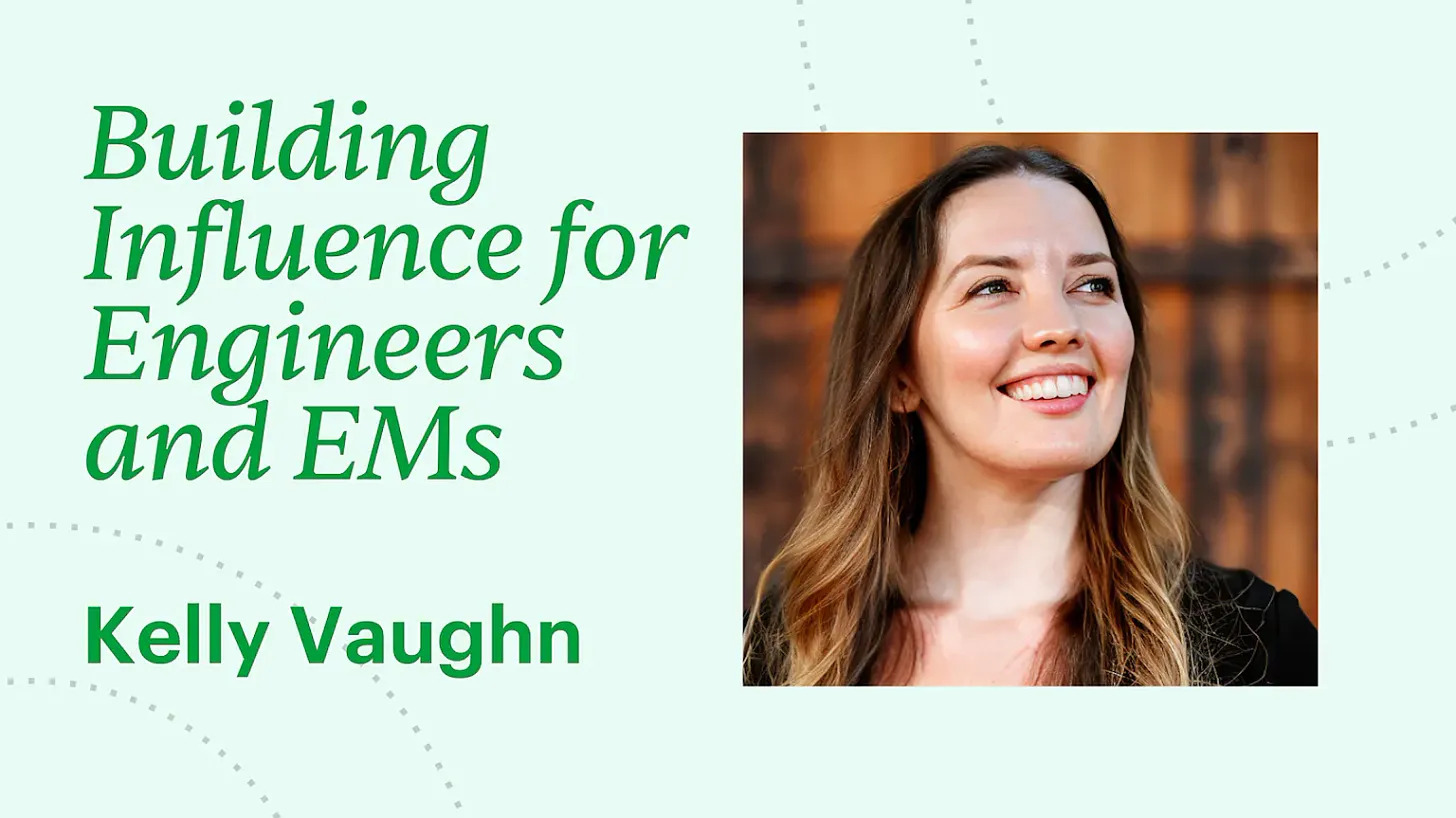
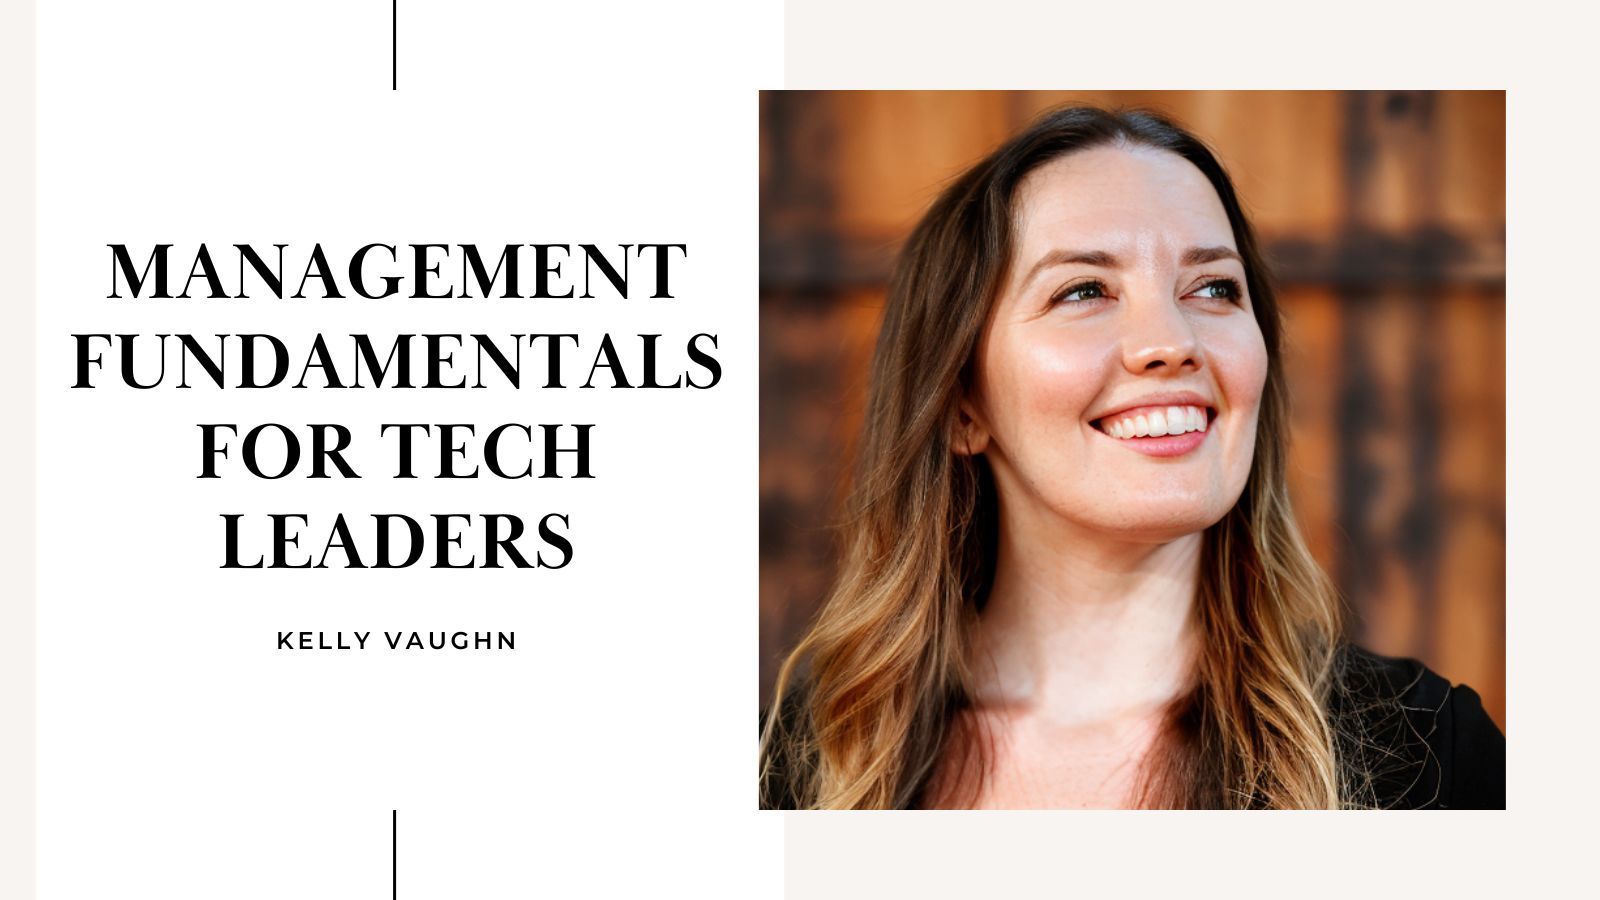
add ppp page

diff --git a/src/content/pages/course.md b/src/content/pages/course.md
@@ -1,21 +1,23 @@
 ---
-title: Building Influence For Engineers & EMs
+title: Management Fundamentals for Tech Leaders
 seo:
-  title: Building Influence For Engineers & EMs
+  title: Management Fundamentals for Tech Leaders
   description: Learn the 3 key skills you need to be an impactful leader in your engineering org
   image:
     src: '/kelly-vaughn.jpg'
 ---
 
-## Learn the 3 key skills you need to be an impactful leader within your engineering organization, regardless of your job title
+## Learn the 3 key skills you need to be an impactful technical leader
 
-![Heading for Building Influence for Engineers & EMs](/course.jpg)
+![Heading for Management Fundamentals for Tech Leaders](/course.jpg)
 
 ## What makes a great engineering leader?
 
-**People remember their favorite managers and technical leads not by the technical contributions they made but by the impact they left on their career.**
+**Tech leaders are remembered not just for their technical prowess, but for the lasting impact they have on their team's careers and success.**
 
-The best engineering leaders are on a perpetual trail of self-improvement and recognize that great leaders build great teams. Engineers moving into management are often not taught the ropes of how to be a great leader, which can be a huge barrier to their success.
+This course equips both new and experienced software engineering managers with the essential skills to amplify their influence and drive team performance.
+
+**Over 100 software engineers and engineering managers** have already enhanced their leadership capabilities through this course. Join them and transform your approach to tech leadership.
 
 ---
 
@@ -29,27 +31,33 @@ The best engineering leaders are on a perpetual trail of self-improvement and re
 
 &nbsp;
 
-<a class='flex items-center justify-center pt-1 pl-2 pr-2 pb-1 text-main bg-main border border-main rounded-full transition hover:bg-muted text-md italic font-serif' href='https://maven.com/kellyvaughn'>Sign up for the next cohort</a>
+<a class='flex items-center justify-center pt-1 pl-2 pr-2 pb-1 text-main bg-main border border-main rounded-full transition hover:bg-muted text-md italic font-serif' href='https://maven.com/kellyvaughn/engineering-management'>Sign up for the next cohort</a>
 
 ---
 
-> I recently completed Kelly’s course on ‘Building Influence for Engineers and EMs’, and I’m thoroughly impressed. Days after finishing, I find myself still unpacking the wealth of knowledge and insights provided. Kelly expertly laid out the essential foundations for participating in and constructing high-performance software engineering teams. What set this course apart was its interactive nature, making it far more engaging and enjoyable than any other online course I’ve experienced. Highly recommended for those looking to elevate their team’s performance and their personal impact within the tech space.
+> I recently completed Kelly’s course, and I’m thoroughly impressed. Days after finishing, I find myself still unpacking the wealth of knowledge and insights provided. Kelly expertly laid out the essential foundations for participating in and constructing high-performance software engineering teams.
+
+> What set this course apart was its interactive nature, making it far more engaging and enjoyable than any other online course I’ve experienced.
+
+> Highly recommended for those looking to elevate their team’s performance and their personal impact within the tech space.
 
 ---
 
 ## For the duration of your cohort you'll receive:
 
-- Over 4 hours of engaging live sessions easy to attend even during a busy work week
+- 4.5 hours of engaging live virtual sessions spread over 3 days (1.5 hours per day), easy to attend even during a busy work week. Sessions are held on Zoom from 12:00 - 1:30 PM ET
 
 - Hands-on learning by walking through case studies and real life examples with your cohort
 
 - Templates you can immediately start using on the job
 
-- Plus an in-depth live Q&A session to get immediate answers to your on-the-job questions
+- In-depth live Q&A session to get immediate answers to your on-the-job questions
+
+- Recordings and slides of all sessions for future reference and review
 
 &nbsp;
 
-<a class='flex items-center justify-center pt-1 pl-2 pr-2 pb-1 text-main bg-main border border-main rounded-full transition hover:bg-muted text-md italic font-serif' href='https://maven.com/kellyvaughn'>Sign up for the next cohort</a>
+<a class='flex items-center justify-center pt-1 pl-2 pr-2 pb-1 text-main bg-main border border-main rounded-full transition hover:bg-muted text-md italic font-serif' href='https://maven.com/kellyvaughn/engineering-management'>Sign up for the next cohort</a>
 
 ---
 

diff --git a/src/content/pages/ppp.md b/src/content/pages/ppp.md
@@ -1,0 +1,38 @@
+---
+title: Pay Parity Pricing for Management Fundamentals for Tech Leaders
+seo:
+  title: Pay Parity Pricing for Management Fundamentals for Tech Leaders
+  description: Fill out this form to request a PPP discount for the course.
+  image:
+    src: '/course.jpg'
+---
+
+**Education and personal development should be accessible to everyone, regardless of their financial circumstances or geographic location.**
+
+That's why I'm proud to offer pay parity pricing for my course, [Management Fundamentals for Tech Leaders](https://maven.com/kellyvaughn/engineering-management).
+
+## What is Pay Parity Pricing?
+
+Pay parity pricing adjusts the cost of the course based on your location and economic situation. This approach ensures that the course remains affordable and accessible to learners worldwide.
+
+**How It Works:**
+
+1. Fill out the form below with your information.
+2. I'll review your request and determine an appropriate discount.
+3. You'll receive an email with your personalized discount code within 3-5 business days.
+
+## Why I Offer Pay Parity Pricing:
+
+- To promote equal access to education
+- To support learners from diverse economic backgrounds
+- To build a more inclusive global community of students
+
+### Important Notes:
+
+- All information provided will be kept strictly confidential.
+- Submitting a request does not guarantee approval.
+- I reserve the right to ask for additional information if needed.
+
+If you have any questions about our pay parity pricing policy, please [reach out](/contact).
+
+Thank you for your interest in Management Fundamentals for Tech Leaders. I look forward to welcoming you to the next cohort!
